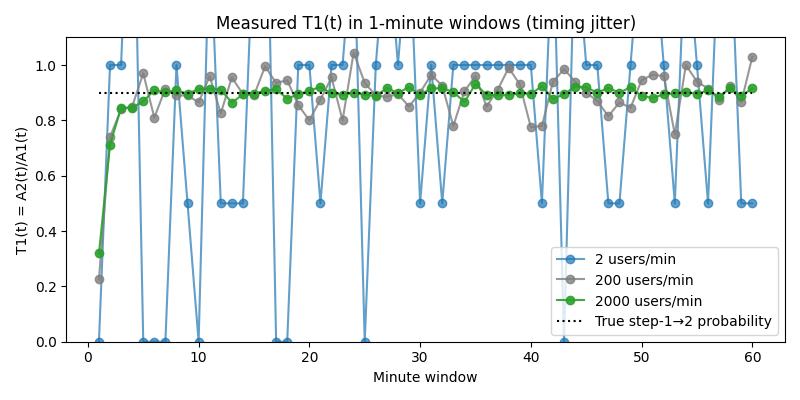
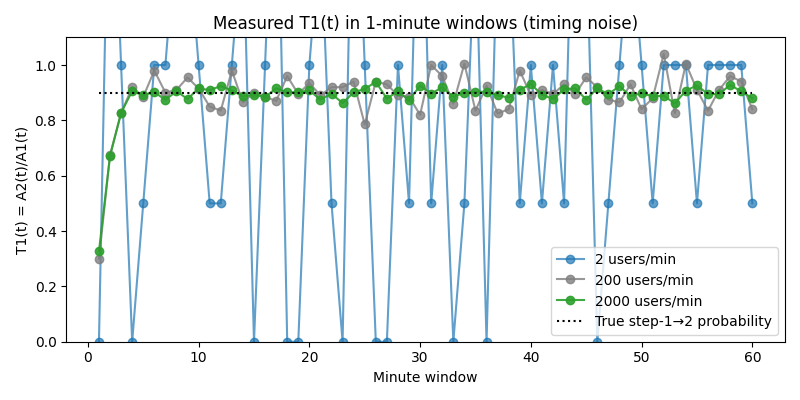
moves noise explanation in flows

diff --git a/src/metrics_demo.py b/src/metrics_demo.py
@@ -194,7 +194,7 @@ def simulate_windowed_T(num_users_per_minute: int, num_minutes: int, p_success: 
 	return T_series
 
 
-# 8) Time-window noise vs funnels (jitter analogy)
+# 8) Time-window noise vs funnels
 minutes = 60
 low_volume_T = simulate_windowed_T(num_users_per_minute=2, num_minutes=minutes, p_success=T2, mean_delay=1.0)
 mid_volume_T = simulate_windowed_T(num_users_per_minute=200, num_minutes=minutes, p_success=T2, mean_delay=1.0)
@@ -205,7 +205,7 @@ plt.plot(range(1, minutes + 1), low_volume_T, marker="o", linestyle="-", color="
 plt.plot(range(1, minutes + 1), mid_volume_T, marker="o", linestyle="-", color="#7f7f7f", alpha=0.8, label="200 users/min")
 plt.plot(range(1, minutes + 1), high_volume_T, marker="o", linestyle="-", color="#2ca02c", alpha=0.9, label="2000 users/min")
 plt.hlines(T2, 1, minutes, colors="black", linestyles="dotted", label="True step-1→2 probability")
-plt.title("Measured T1(t) in 1-minute windows (timing jitter)")
+plt.title("Measured T1(t) in 1-minute windows (timing noise)")
 plt.xlabel("Minute window")
 plt.ylabel("T1(t) = A2(t)/A1(t)")
 plt.ylim(0, 1.1)

diff --git a/README.md b/README.md
@@ -80,7 +80,7 @@ The math is based on ratios ($T_i$, $C$), not on absolute counts.
 - Under a stable system you can put upper/lower bands around $C(t)$ and detect when
   behavior breaks away from the usual range.
 
-### Time windows, funnels, and jitter
+### Time windows, funnels, and noise
 
 Funnels follow individual users across time, so each user is counted once in each step,
 no matter how long they take between steps.
@@ -91,15 +91,37 @@ and step 2, they appear in $A_1(t)$ in one window and in $A_2(t')$ in the next w
 In that case, the per-window ratio $T_1(t) = A_2(t)/A_1(t)$ is a **noisy estimate** of
 the true step-1→2 success probability.
 
-This is similar in spirit to [exponential backoff with jitter](https://aws.amazon.com/blogs/architecture/exponential-backoff-and-jitter/):
-randomness in timing spreads events across buckets. At low volume and with very small
-windows, this jitter makes $T_i(t)$ and $C(t)$ look noisy, even when the underlying
-system is perfectly stable.
+This is similar in spirit to [exponential backoff and jitter](https://aws.amazon.com/blogs/architecture/exponential-backoff-and-jitter/):
+random timing spreads calls across time instead of creating big spikes. At low volume
+and with very small windows, this timing noise makes $T_i(t)$ and $C(t)$ look noisy,
+even when the underlying system is perfectly stable.
 
 As volume grows (or you use slightly larger windows), the law of large numbers wins:
 flows eventually move into the next step, and the window-level ratios settle around
 their true values. The SPC-style view of $C(t)$ and the control limits help you focus
-on structural changes instead of this natural timing jitter.
+on structural changes instead of this natural timing noise.
+
+
+#### Time-window noise vs funnels
+
+![T1 in 1-minute windows: low vs high volume](images/plot8.png)
+
+What it shows:
+- A 2-step flow (Step 1 → Step 2) where each user has a fixed true success probability.
+- We measure $T_1(t) = A_2(t)/A_1(t)$ in 1-minute windows for three cases:
+  2 users/min, 200 users/min, and 2000 users/min.
+
+Interpretation:
+- At 2 users/min, per-window $T_1(t)$ jumps around a lot because users cross
+  window boundaries; arrivals into step 2 are spread over time.
+- At 200 users/min, the same randomness is already much smoother.
+- At 2000 users/min, the measured $T_1(t)$ hugs the true underlying probability.
+
+This is the practical difference between funnels (tracking each user) and this
+flow-based model (tracking windows). Timing noise matters a lot at low volume
+and tiny windows, but becomes mostly harmless once you have enough users or slightly
+larger windows. The SPC $C(t)$ view lets you ignore this noise and focus on
+
 
 ### SPC and control limits
 
@@ -282,24 +304,3 @@ Under a stable system, almost all points should stay between UCL and LCL.
 When the flow changes (for example, a bad T2 experiment), $C(t)$ will sit
 outside this band for a while, which is a strong signal that something
 structural has changed.
-
-### 8. Time-window noise vs funnels (jitter analogy)
-
-![T1 in 1-minute windows: low vs high volume](images/plot8.png)
-
-What it shows:
-- A 2-step flow (Step 1 → Step 2) where each user has a fixed true success probability.
-- We measure $T_1(t) = A_2(t)/A_1(t)$ in 1-minute windows for three cases:
-  2 users/min, 200 users/min, and 2000 users/min.
-
-Interpretation:
-- At 2 users/min, per-window $T_1(t)$ jumps around a lot because users cross
-  window boundaries; arrivals into step 2 are jittered over time.
-- At 200 users/min, the same randomness is already much smoother.
-- At 2000 users/min, the measured $T_1(t)$ hugs the true underlying probability.
-
-This is the practical difference between funnels (tracking each user) and this
-flow-based model (tracking windows). Timing jitter matters a lot at low volume
-and tiny windows, but becomes mostly noise once you have enough users or slightly
-larger windows. The SPC $C(t)$ view lets you ignore this jitter and focus on
-real, structural changes in the flow.
